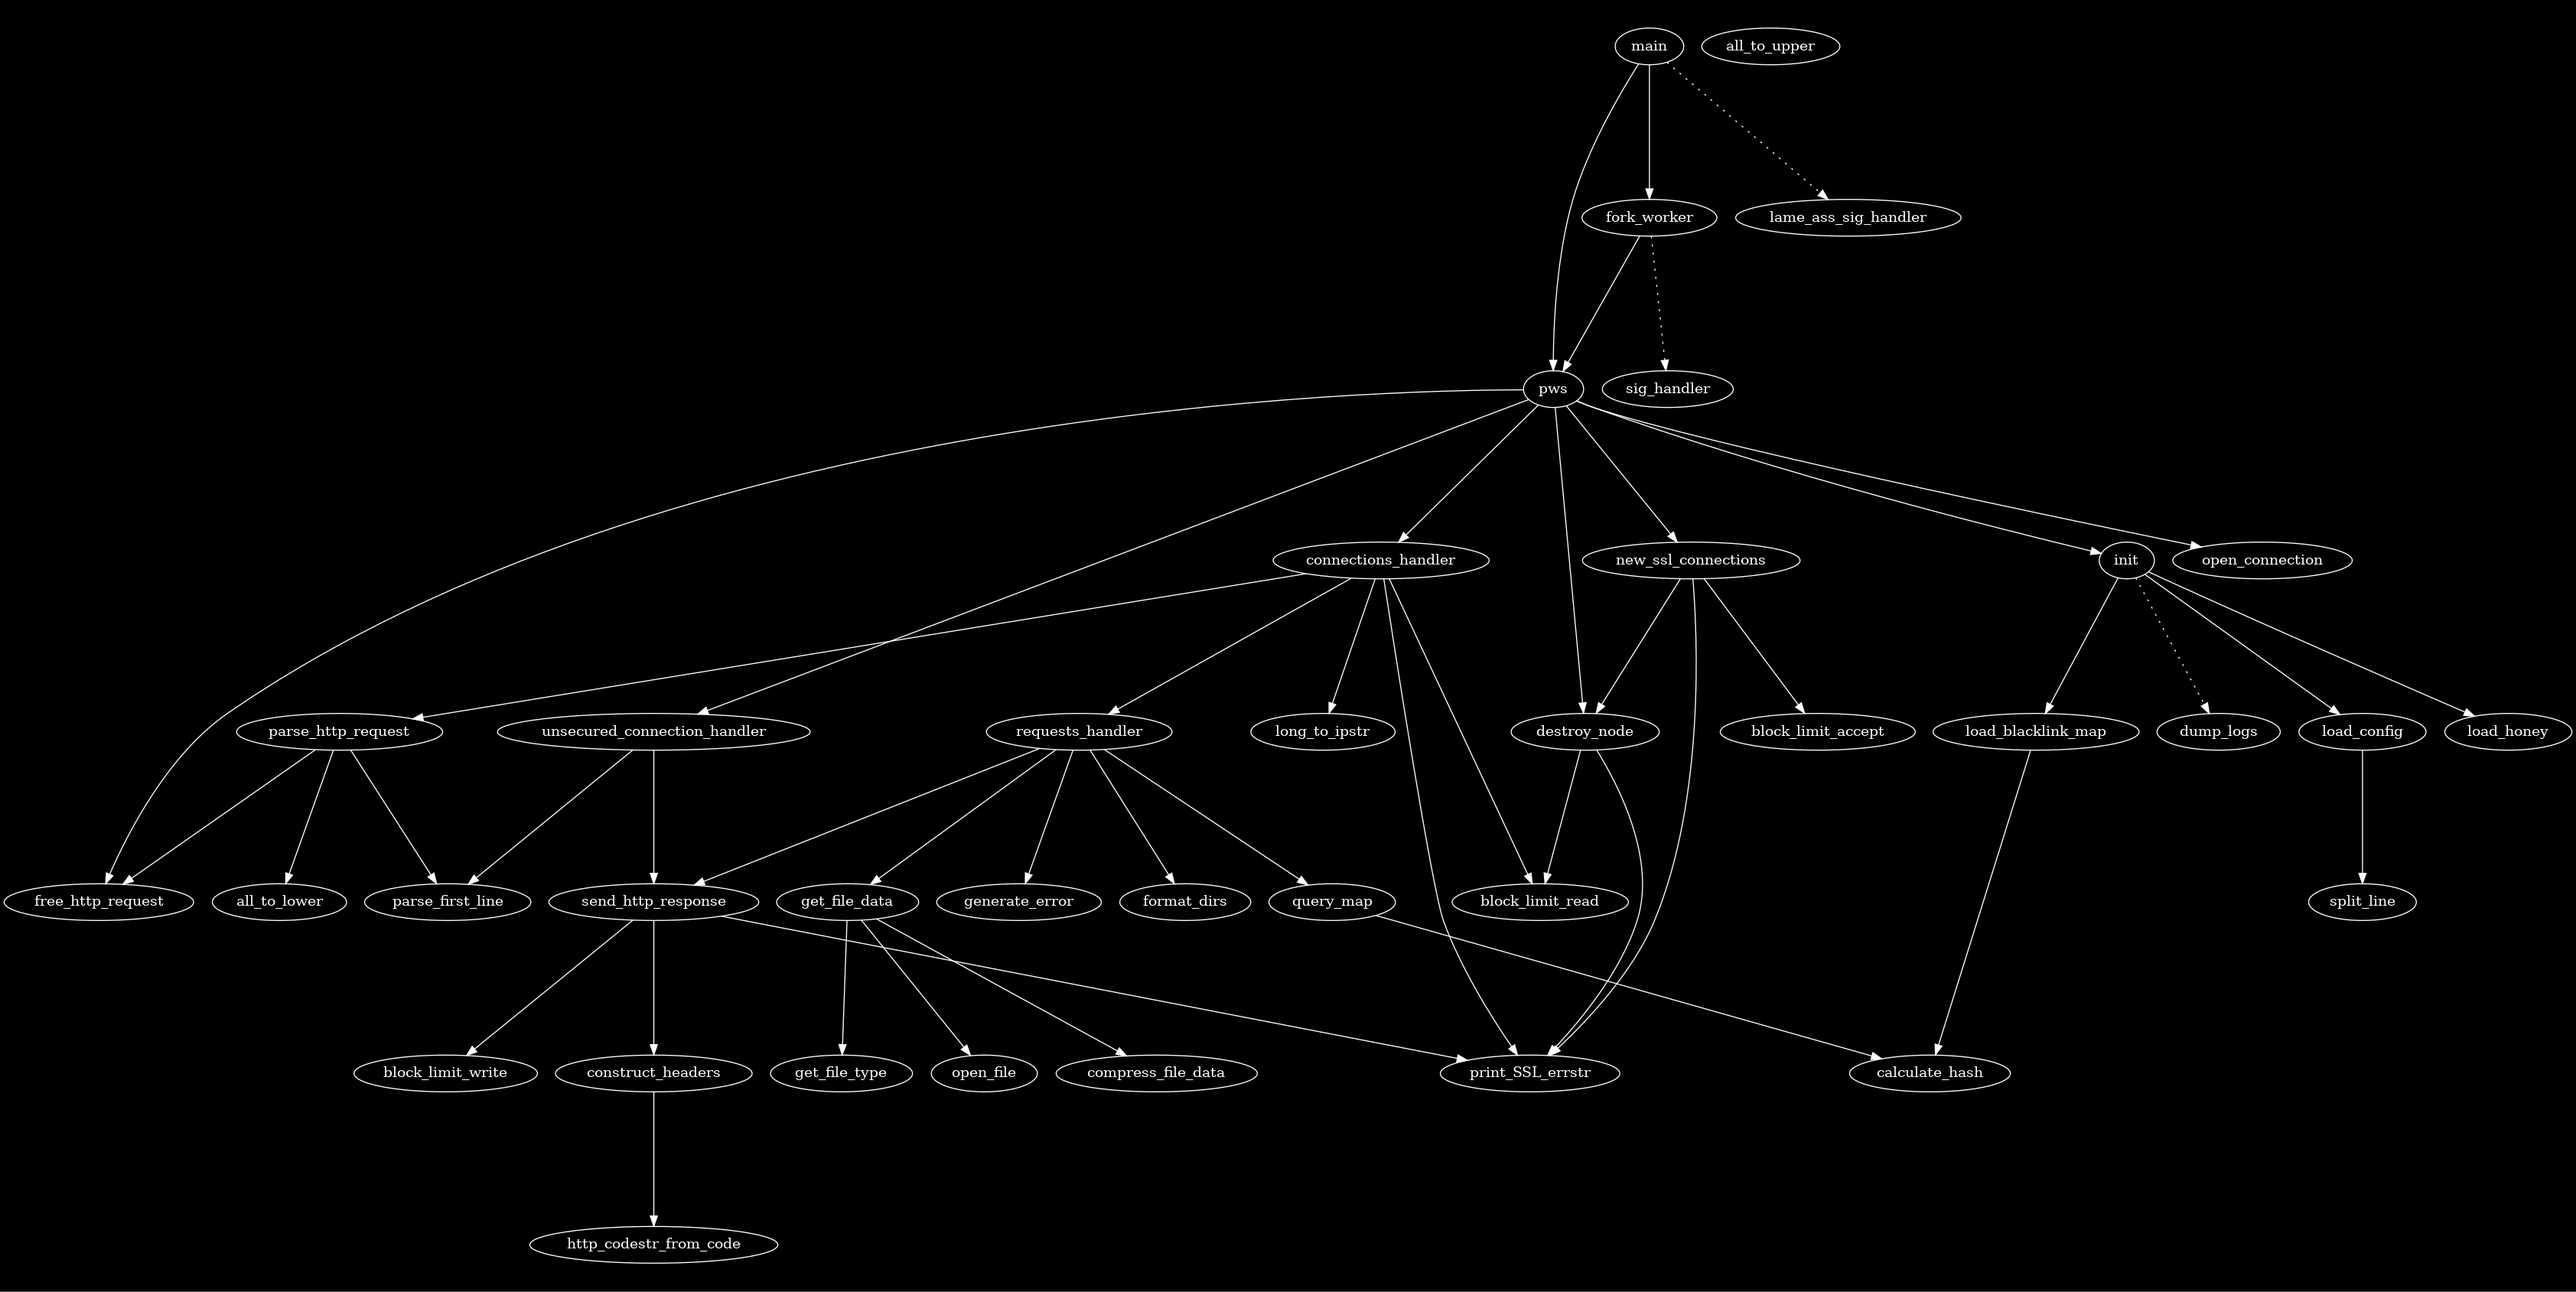
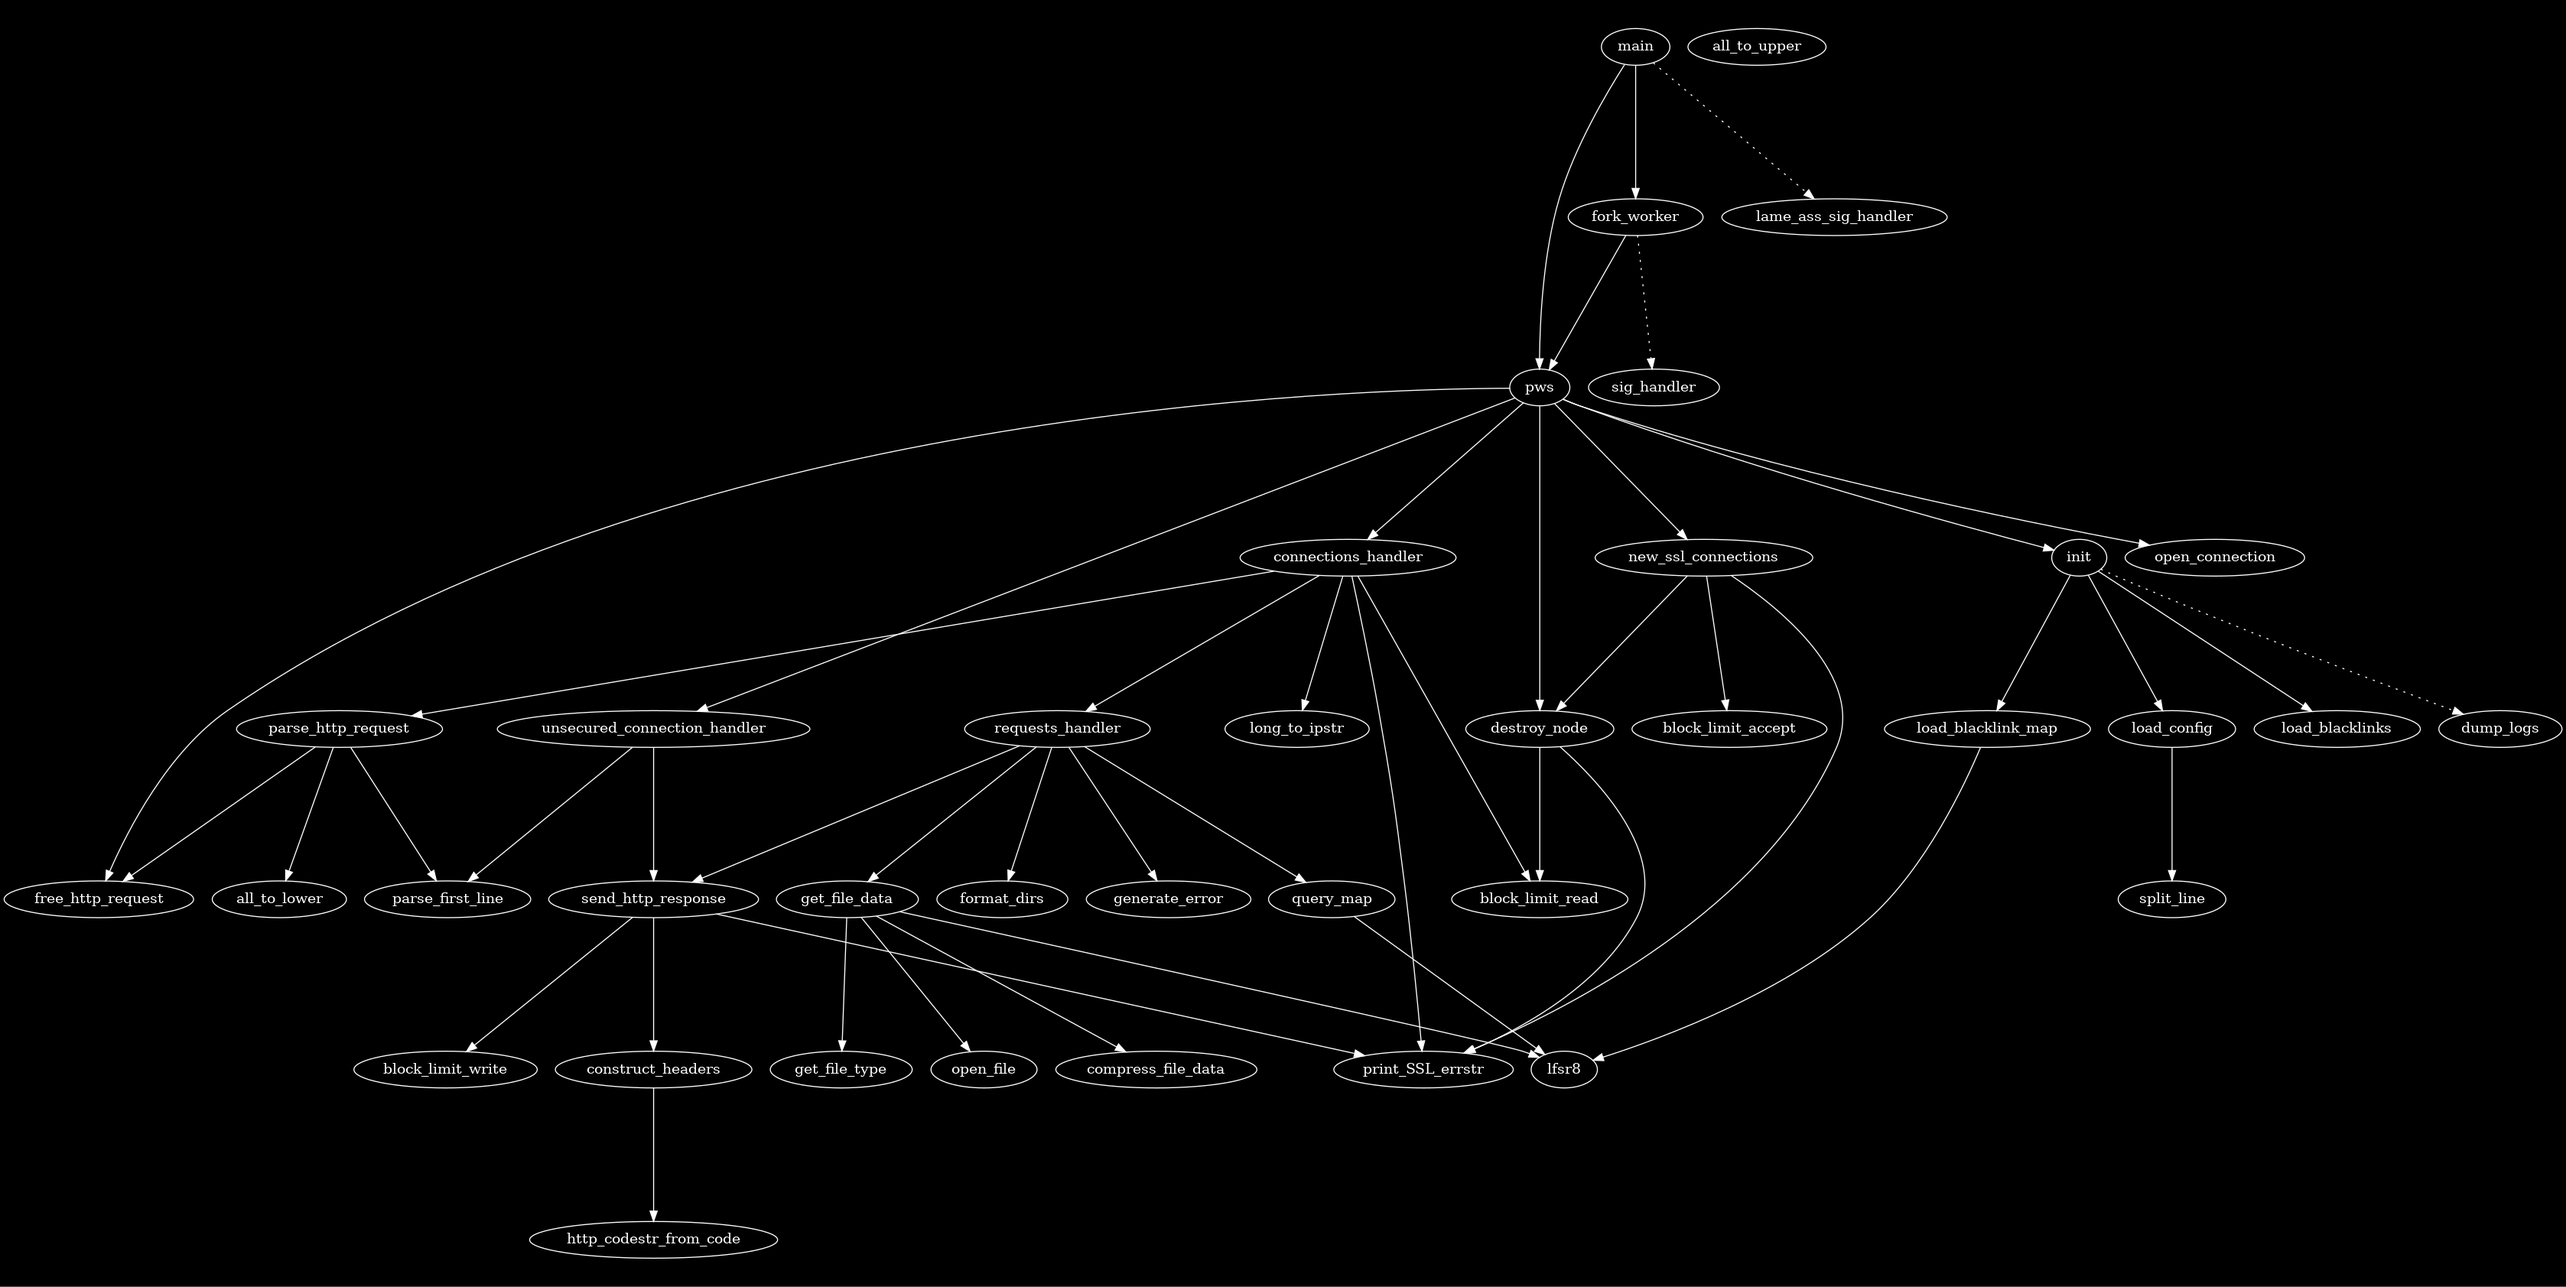
bumped version number
added new callgraph

diff --git a/src/prot.h b/src/prot.h
@@ -9,7 +9,7 @@
 
 #include "tweakables.h"
 
-#define VERSION_NUMBER "PWS 1.2.0-beta"
+#define VERSION_NUMBER "PWS 1.3.0-beta"
 
 #define HTTP_PORT 80
 #define HTTPS_PORT 443
